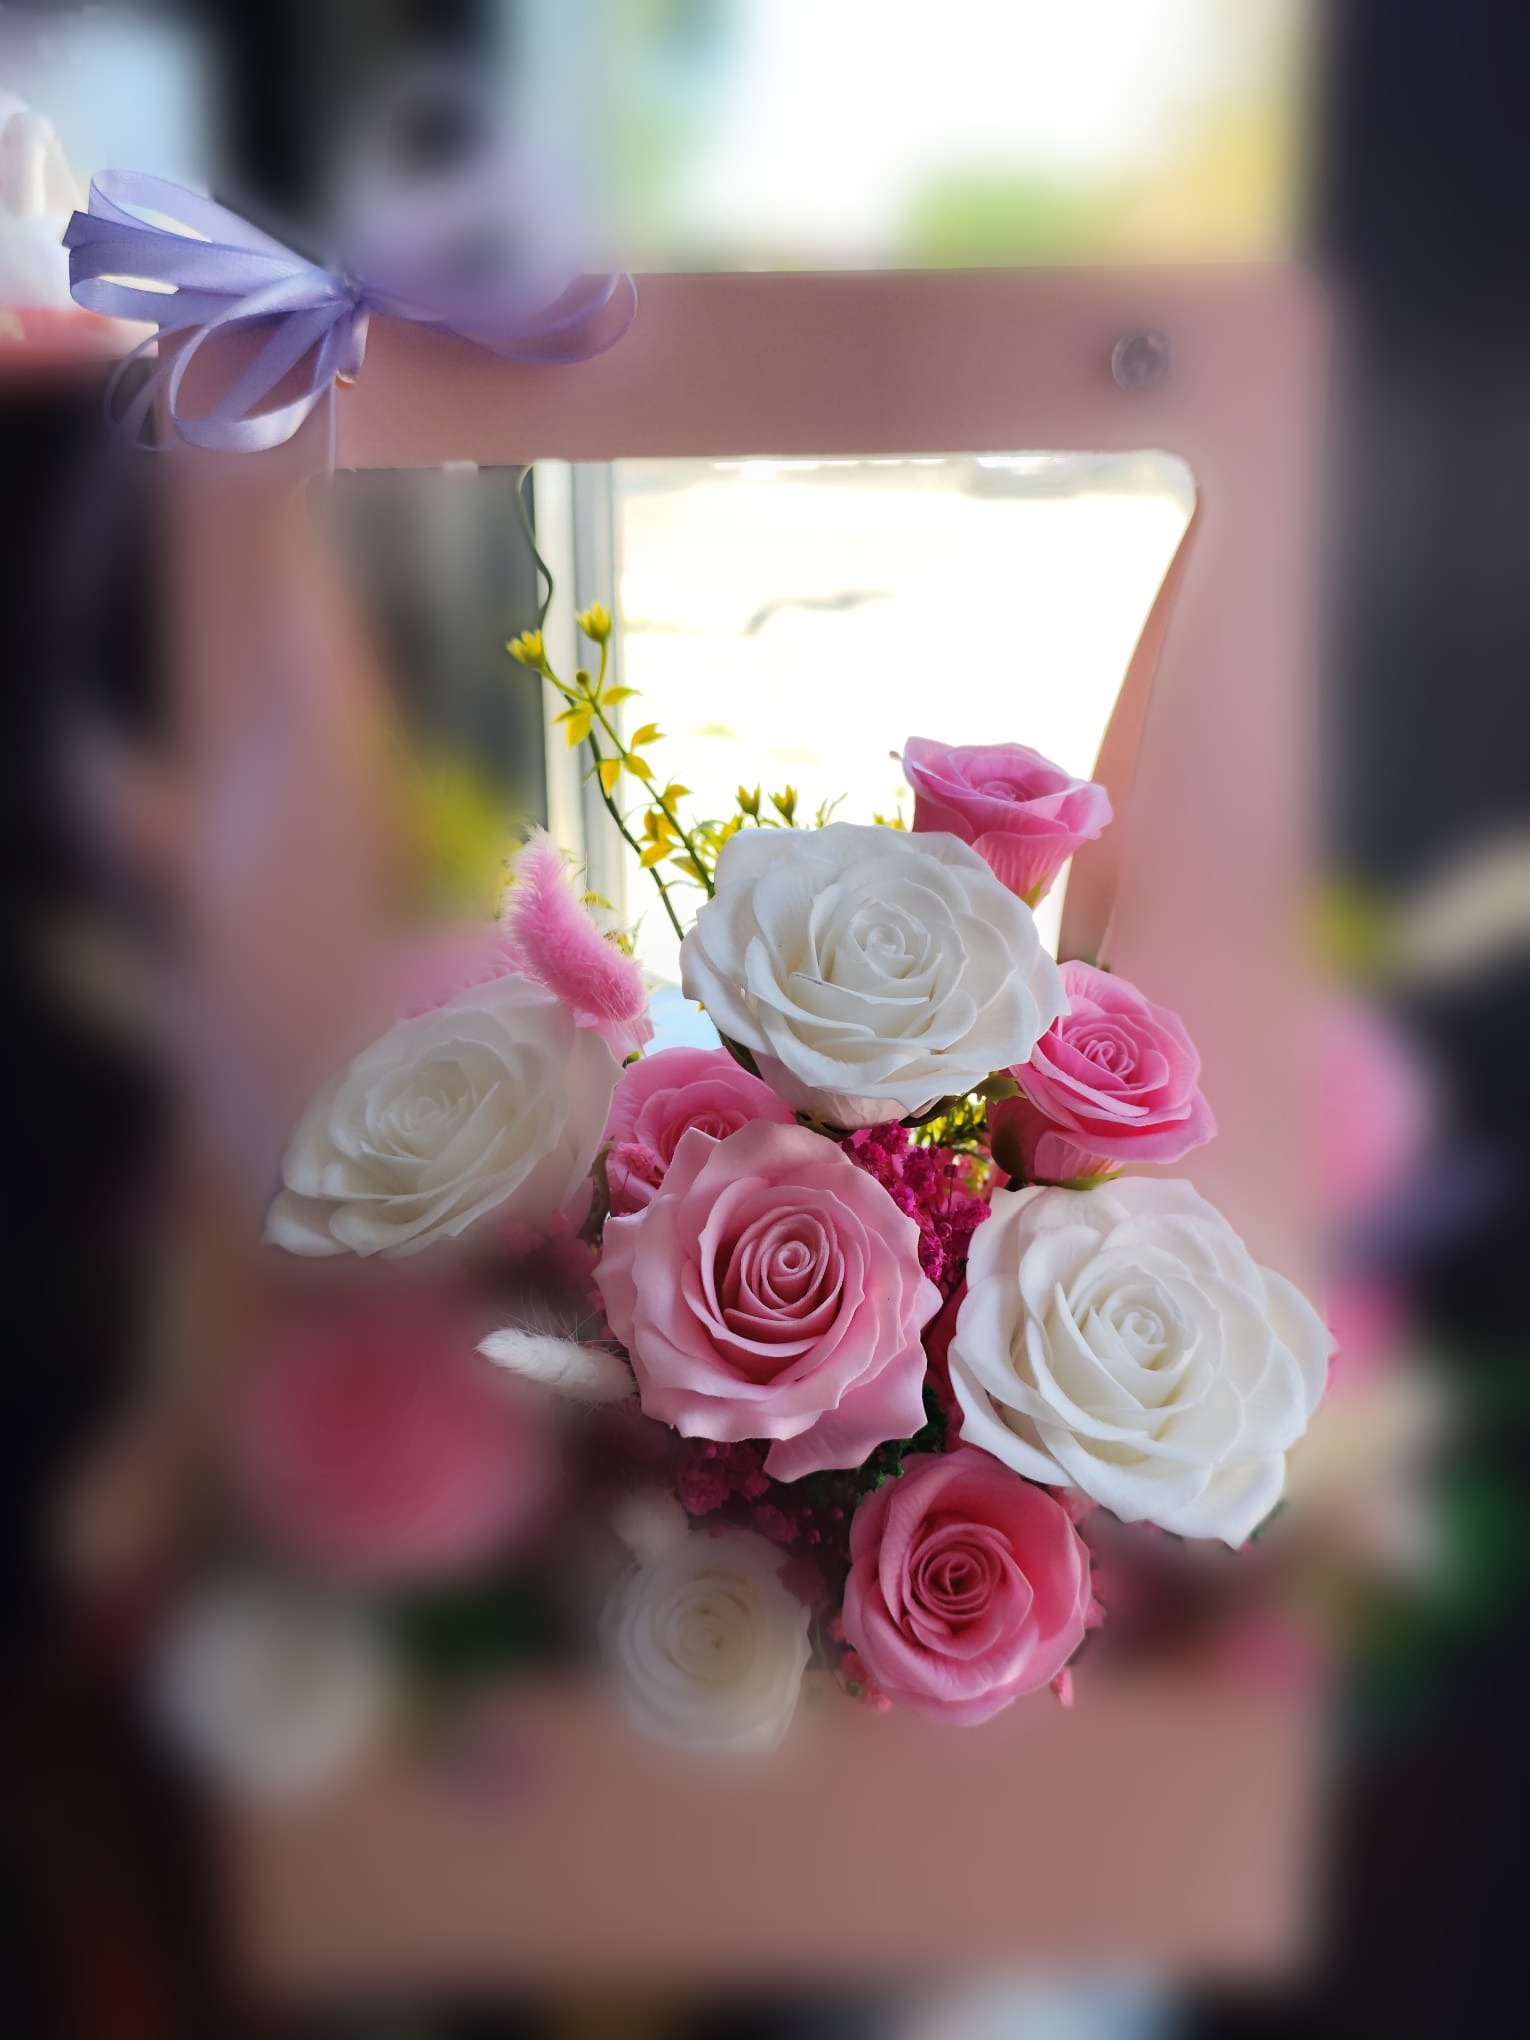
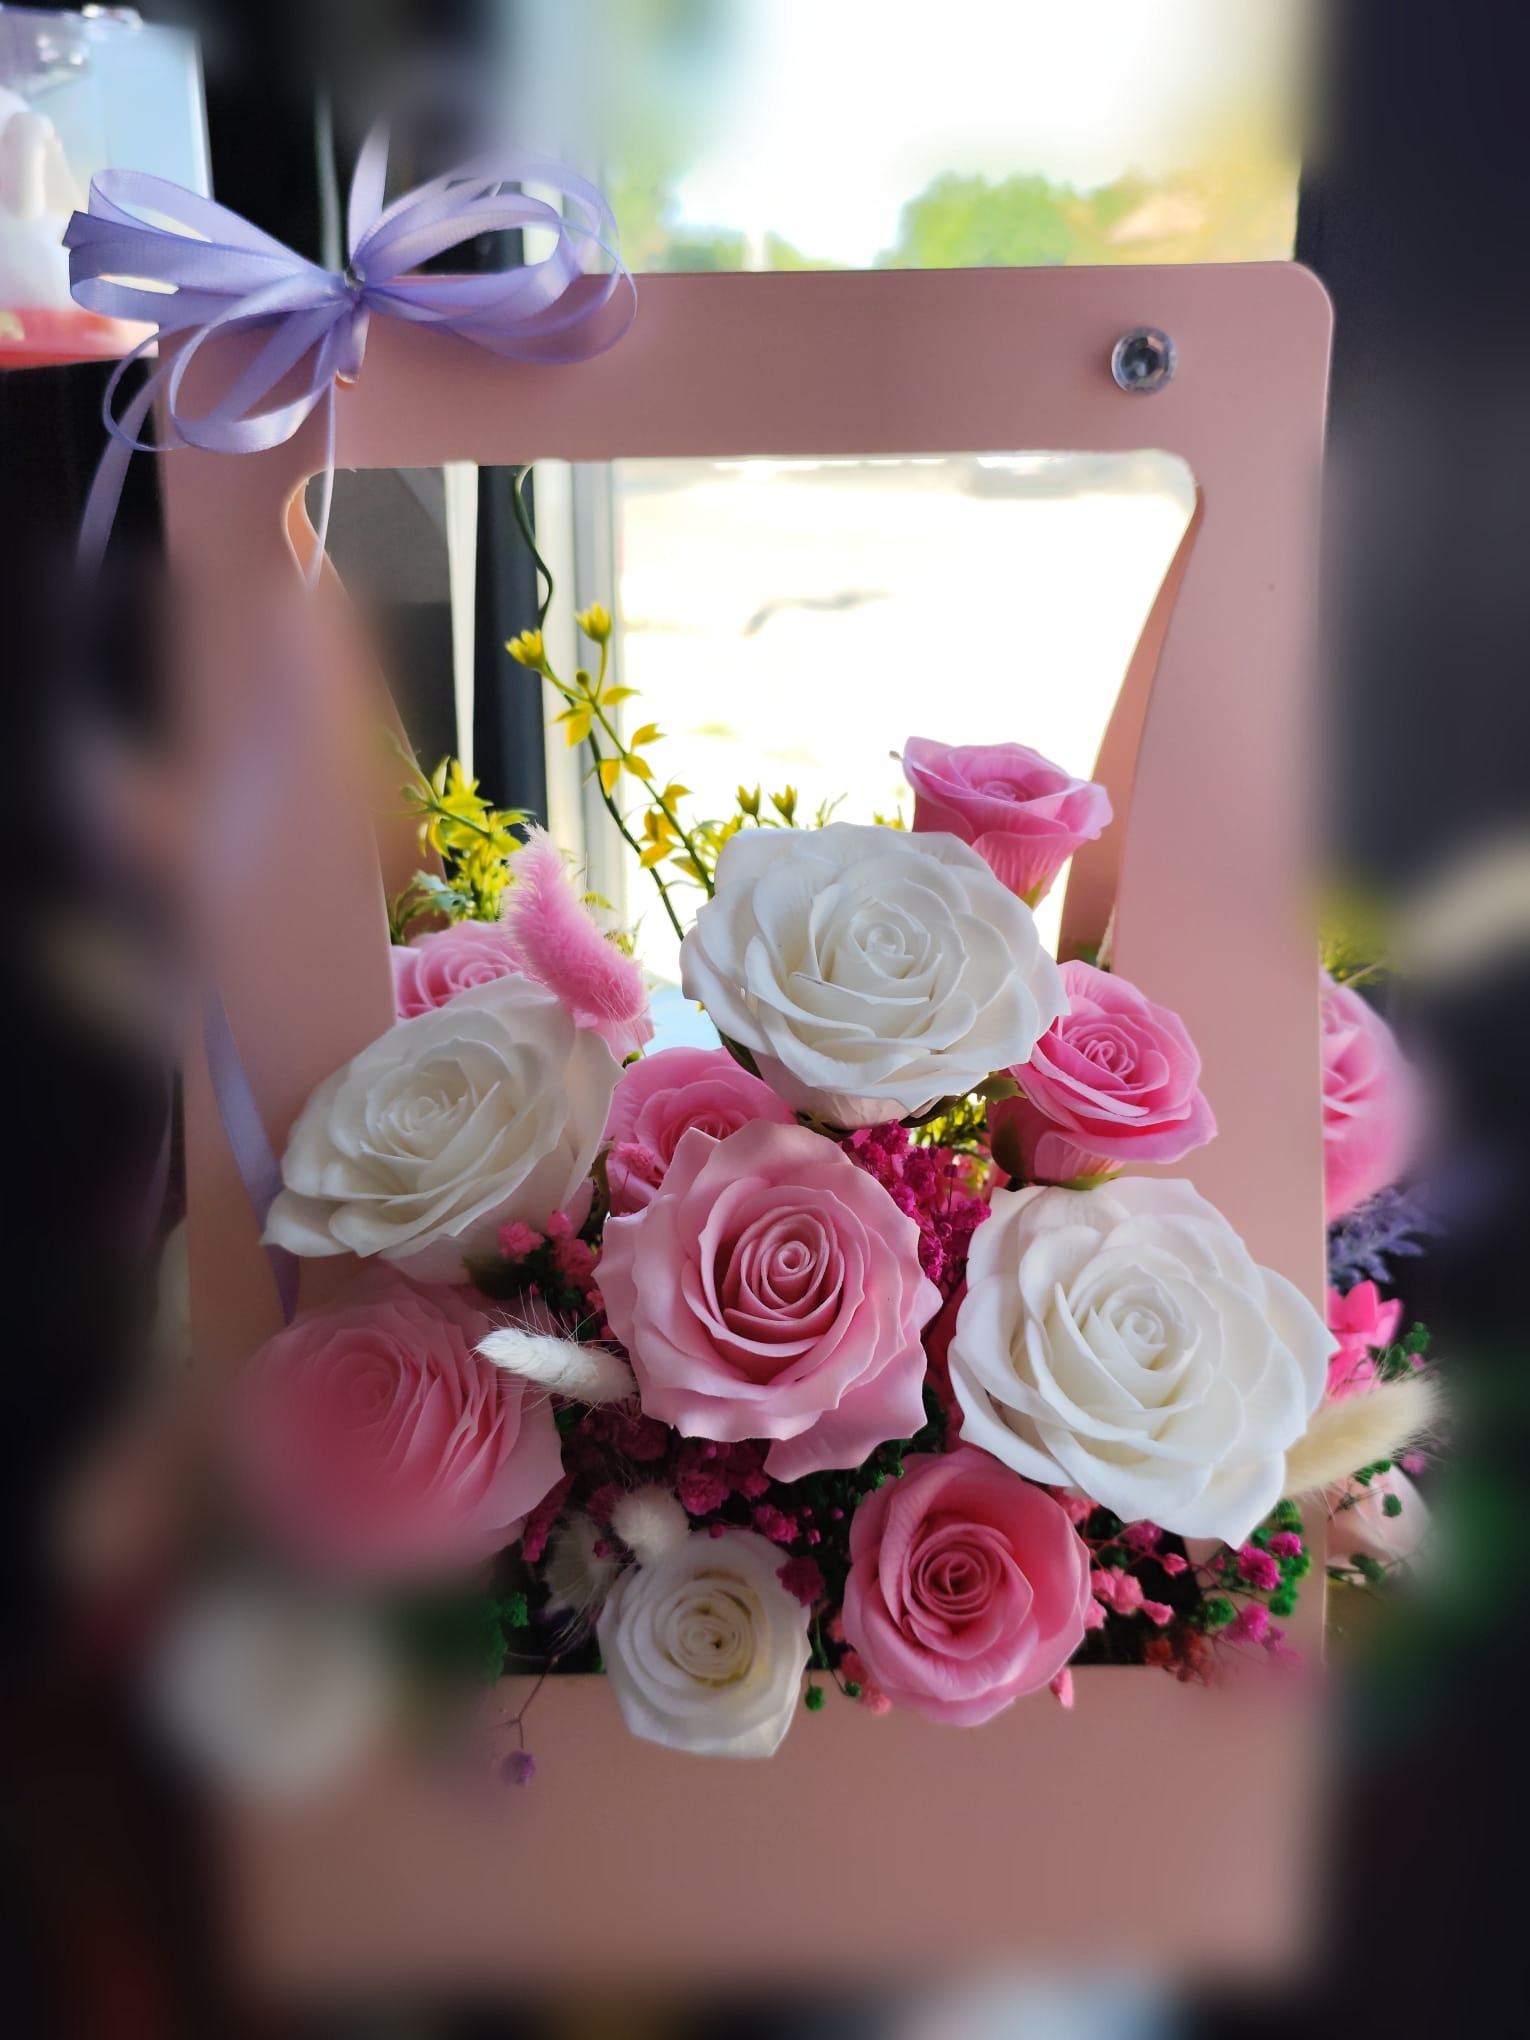
Keep flower box sharp in blur, enlarge and center hero photo

diff --git a/style.css b/style.css
@@ -8,7 +8,7 @@
 * { box-sizing: border-box; }
 html { scroll-behavior: smooth; }
 body { margin: 0; background: var(--paper); color: var(--ink); font-family: Arial, Helvetica, sans-serif; }
-.hero { min-height: 730px; padding: 28px 7vw 70px; position: relative; overflow: hidden; }
+.hero { min-height: 800px; padding: 28px 7vw 70px; position: relative; overflow: hidden; }
 .nav { display: flex; align-items: center; justify-content: space-between; font-size: .75rem; font-weight: 700; letter-spacing: .11em; text-transform: uppercase; }
 .nav a { color: inherit; text-decoration: none; }
 .brand { font-family: Georgia, "Times New Roman", serif; font-size: 1.35rem; font-weight: bold; letter-spacing: 0; text-transform: none; }
@@ -20,7 +20,7 @@ h1 em { color: var(--rose); }
 .intro { max-width: 440px; font-size: 1.08rem; line-height: 1.7; }
 .button { display: inline-block; background: var(--ink); color: white; margin-top: 20px; padding: 15px 24px; font-size: .8rem; letter-spacing: .08em; text-decoration: none; text-transform: uppercase; }
 .photo { display: block; width: 100%; height: 100%; object-fit: cover; border-radius: 4px; }
-.hero-slot { width: min(34vw, 480px); height: 540px; position: absolute; right: 7vw; top: 116px; }
+.hero-slot { width: min(42vw, 620px); height: 650px; position: absolute; right: 6vw; top: 50%; transform: translateY(-50%); }
 .about { background: #e7dbce; display: grid; gap: clamp(42px, 8vw, 130px); grid-template-columns: minmax(220px, 390px) minmax(280px, 600px); align-items: center; padding: 110px 12vw; }
 .small-slot { height: 360px; }
 .about-copy h2 { font-size: clamp(2.5rem, 4vw, 4.2rem); margin: 15px 0 24px; }
